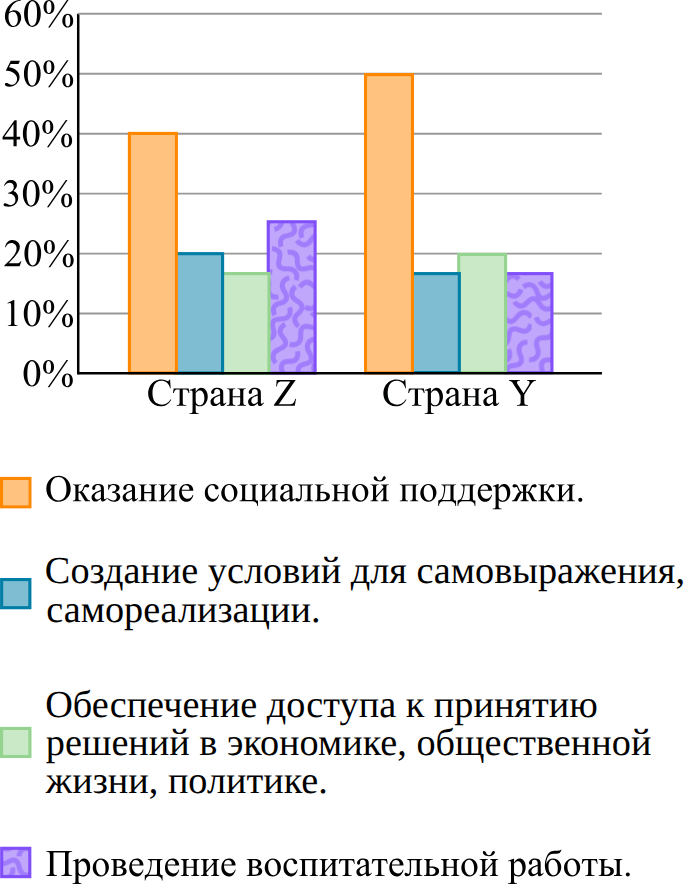
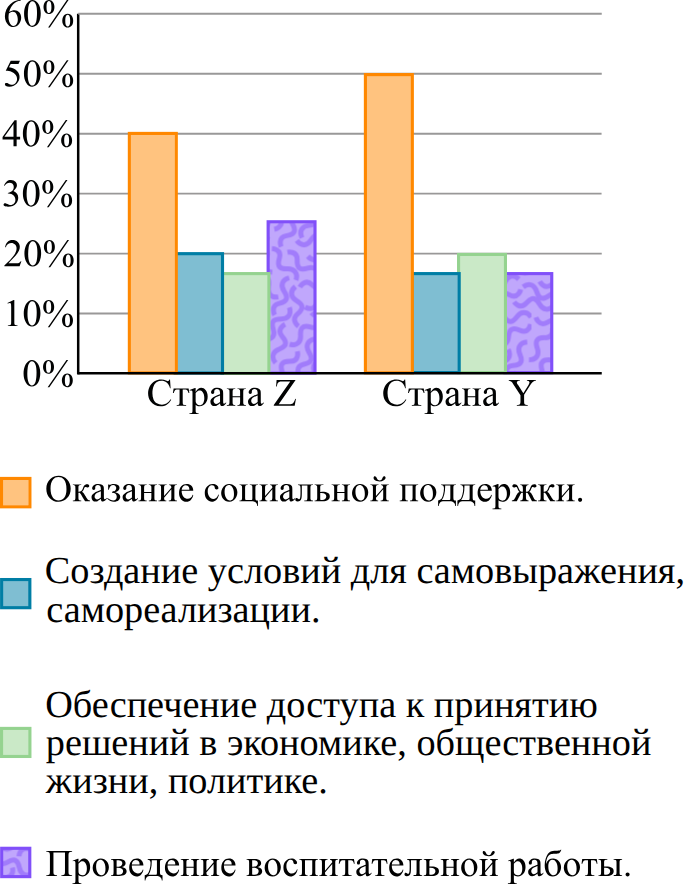
Фикс обрезанной легенды: расширение холста SVG при импорте
Настоящая причина (нашёл только теперь): текст легенды шире, чем viewBox
исходного SVG, и корневой overflow:hidden срезал его. overflow:visible и
 Clip-path НЕ помогали — решает только расширение холста перед рендером
 (width/viewBox × 1,7), дальше автообрезка белых полей.

Все 19 картинок перегенерированы, легенды полные (проверено покадрово),
ratio/width пересчитаны по фактическому размеру PNG.

diff --git a/tools/pilot_figures.py b/tools/pilot_figures.py
@@ -138,12 +138,30 @@ def rasterize(svg_path: Path, scale: float) -> Path:
     Пустые белые поля обрезаются. Возвращает путь к PNG; SVG удаляется."""
     if CHROME is None:
         raise RuntimeError("нет headless Chrome для растеризации")
+    # Легенда вылезает за viewBox: корень SVG режет overflow:hidden, и текст
+    # обрезается. Расширяем холст (viewBox + width/height) с запасом, рендерим,
+    # затем обрезаем белые поля — так в PNG попадает весь текст.
+    txt = svg_path.read_text(encoding="utf-8", errors="ignore")
+    mw = re.search(r'<svg[^>]*\bwidth="([\d.]+)', txt)
+    mh = re.search(r'<svg[^>]*\bheight="([\d.]+)', txt)
+    mv = re.search(r'<svg[^>]*\bviewBox="([\d.\s-]+)"', txt)
+    if mw and mh:
+        w0, h0 = float(mw.group(1)), float(mh.group(1))
+        w1 = w0 * 1.7
+        txt = re.sub(r'(<svg[^>]*\bwidth=")[\d.]+(")', lambda m: m.group(1) + f"{w1:.2f}" + m.group(2), txt, count=1)
+        txt = re.sub(r'(<svg[^>]*\bheight=")[\d.]+(")', lambda m: m.group(1) + f"{h0:.2f}" + m.group(2), txt, count=1)
+        if mv:
+            parts = mv.group(1).split()
+            txt = re.sub(r'(<svg[^>]*\bviewBox=")[^"]+(")', lambda m: m.group(1) + f"{parts[0]} {parts[1]} {w1:.2f} {float(parts[3]):.2f}" + m.group(2), txt, count=1)
+        svg_path.write_text(txt, encoding="utf-8")
     out = svg_path.with_suffix(".png")
-    w = int(float(re.search(r'width="([\d.]+)', svg_path.read_text(encoding="utf-8", errors="ignore")).group(1)) * scale)
-    h = int(float(re.search(r'height="([\d.]+)', svg_path.read_text(encoding="utf-8", errors="ignore")).group(1)) * scale)
+    mw2 = re.search(r'width="([\d.]+)"', txt)
+    mh2 = re.search(r'height="([\d.]+)"', txt)
+    w = int(float(mw2.group(1)) * scale)
+    h = int(float(mh2.group(1)) * scale)
     subprocess.run([str(CHROME), "--headless", "--disable-gpu", "--no-sandbox",
                     "--hide-scrollbars", "--force-device-scale-factor=" + str(scale),
-                    "--window-size=" + str(w + 2) + "," + str(h + 2),
+                    "--window-size=" + str(w + 40) + "," + str(h + 40),
                     "--default-background-color=FFFFFFFF",
                     "--screenshot=" + str(out), svg_path.resolve().as_uri()],
                    check=True, capture_output=True, timeout=180)
